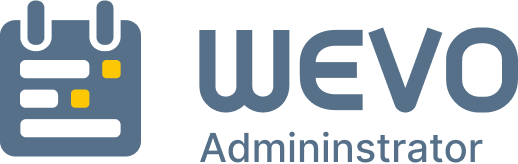
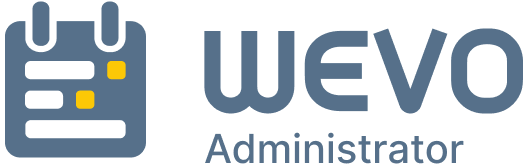
feat: update admin modals and sidebar with improved styling and functionality
- Updated the AdminReservationReviewModal and RejectionReasonModal components for better UI consistency, including button size adjustments and text truncation.
- Changed the logo in AdminLeftSidebar to the new Wevo Admin logo.
- Enhanced AdminDashboardPage and AdminReservationsPage with text truncation for better readability in table displays.

diff --git a/src/pages/AdminDashboardPage.jsx b/src/pages/AdminDashboardPage.jsx
@@ -5,12 +5,29 @@ import Calendar from "../components/Calendar/Calendar"; // Assuming a generic ca
 import { Search, ListFilter, Filter, User, Bookmark } from "lucide-react";
 import { useNavigate } from "react-router-dom";
 import AdminReservationReviewModal from "../components/AdminReservationReviewModal";
-import { fetchAdminRequests, updateBookingRequestStatus, fetchStatistics } from "../api/requests";
+import {
+  fetchAdminRequests,
+  updateBookingRequestStatus,
+  fetchStatistics,
+} from "../api/requests";
+
+// Helper function to truncate text
+const truncateText = (text, maxLength) => {
+  if (text && text.length > maxLength) {
+    return text.substring(0, maxLength) + "...";
+  }
+  return text;
+};
 
 export default function AdminDashboardPage() {
   const navigate = useNavigate();
   const [requests, setRequests] = useState([]);
-  const [stats, setStats] = useState({ totalRequests: 0, pending: 0, approved: 0, rejected: 0 });
+  const [stats, setStats] = useState({
+    totalRequests: 0,
+    pending: 0,
+    approved: 0,
+    rejected: 0,
+  });
   const [selectedRequest, setSelectedRequest] = useState(null);
   const [isReviewModalOpen, setIsReviewModalOpen] = useState(false);
 
@@ -177,15 +194,18 @@ export default function AdminDashboardPage() {
                         key={req.id}
                         className="bg-white border-b hover:bg-gray-50"
                       >
-                        <td className="px-3 py-3 flex items-center gap-2">
-                          <span className="w-8 h-8 rounded-full bg-gray-200 flex items-center justify-center">
-                            <User size={16} className="text-gray-500" />
-                          </span>
-                          {req.orgName}
+                        <td className="px-3 py-3">
+                          {truncateText(req.orgName, 25)}
                         </td>
-                        <td className="px-3 py-3">{req.location}</td>
-                        <td className="px-3 py-3">{req.type}</td>
-                        <td className="px-3 py-3">{req.eventName}</td>
+                        <td className="px-3 py-3">
+                          {truncateText(req.location, 25)}
+                        </td>
+                        <td className="px-3 py-3">
+                          {truncateText(req.type, 25)}
+                        </td>
+                        <td className="px-3 py-3">
+                          {truncateText(req.eventName, 25)}
+                        </td>
                         <td className="px-3 py-3 min-w-[8rem]">
                           <div>{req.date}</div>
                           <div className="text-xs text-gray-500">
@@ -255,8 +275,7 @@ export default function AdminDashboardPage() {
                         className="h-full bg-yellow-400"
                         style={{
                           width: `${
-                            (stats.pending / stats.totalRequests) *
-                            100
+                            (stats.pending / stats.totalRequests) * 100
                           }%`,
                         }}
                       ></div>
@@ -272,8 +291,7 @@ export default function AdminDashboardPage() {
                         className="h-full bg-green-500"
                         style={{
                           width: `${
-                            (stats.approved / stats.totalRequests) *
-                            100
+                            (stats.approved / stats.totalRequests) * 100
                           }%`,
                         }}
                       ></div>
@@ -289,8 +307,7 @@ export default function AdminDashboardPage() {
                         className="h-full bg-red-500"
                         style={{
                           width: `${
-                            (stats.rejected / stats.totalRequests) *
-                            100
+                            (stats.rejected / stats.totalRequests) * 100
                           }%`,
                         }}
                       ></div>

diff --git a/src/pages/AdminReservationsPage.jsx b/src/pages/AdminReservationsPage.jsx
@@ -11,8 +11,19 @@ import {
   ChevronDown,
 } from "lucide-react";
 import { useNavigate } from "react-router-dom";
-import { fetchAdminRequests, updateBookingRequestStatus } from "../api/requests";
+import {
+  fetchAdminRequests,
+  updateBookingRequestStatus,
+} from "../api/requests";
 import { supabase } from "../supabase/supabaseClient";
+
+// Helper function to truncate text
+const truncateText = (text, maxLength) => {
+  if (text && text.length > maxLength) {
+    return text.substring(0, maxLength) + "...";
+  }
+  return text;
+};
 
 export default function AdminReservationsPage() {
   const navigate = useNavigate();
@@ -35,10 +46,14 @@ export default function AdminReservationsPage() {
     loadRequests();
     // Real-time subscription to booking_requests changes
     const subscription = supabase
-      .channel('public:booking_requests')
-      .on('postgres_changes', { event: '*', schema: 'public', table: 'booking_requests' }, () => {
-        loadRequests();
-      })
+      .channel("public:booking_requests")
+      .on(
+        "postgres_changes",
+        { event: "*", schema: "public", table: "booking_requests" },
+        () => {
+          loadRequests();
+        }
+      )
       .subscribe();
     return () => {
       supabase.removeChannel(subscription);
@@ -57,10 +72,10 @@ export default function AdminReservationsPage() {
 
   const handleApproveRequest = async (requestId) => {
     try {
-      await updateBookingRequestStatus(requestId, 'Approved');
+      await updateBookingRequestStatus(requestId, "Approved");
       setReservations((prev) =>
         prev.map((res) =>
-          res.id === requestId ? { ...res, status: 'Approved' } : res
+          res.id === requestId ? { ...res, status: "Approved" } : res
         )
       );
     } catch (err) {
@@ -70,11 +85,11 @@ export default function AdminReservationsPage() {
 
   const handleRejectRequest = async (requestId, reason) => {
     try {
-      await updateBookingRequestStatus(requestId, 'Rejected', reason);
+      await updateBookingRequestStatus(requestId, "Rejected", reason);
       setReservations((prev) =>
         prev.map((res) =>
           res.id === requestId
-            ? { ...res, status: 'Rejected', rejectionReason: reason }
+            ? { ...res, status: "Rejected", rejectionReason: reason }
             : res
         )
       );
@@ -205,15 +220,18 @@ export default function AdminReservationsPage() {
                       key={res.id}
                       className="bg-white border-b hover:bg-gray-50"
                     >
-                      <td className="px-4 py-3 flex items-center gap-2">
-                        <span className="w-8 h-8 rounded-full bg-gray-200 flex items-center justify-center">
-                          <User size={16} className="text-gray-500" />
-                        </span>
-                        {res.orgName}
+                      <td className="px-4 py-3">
+                        {truncateText(res.orgName, 25)}
                       </td>
-                      <td className="px-4 py-3">{res.location}</td>
-                      <td className="px-4 py-3">{res.type}</td>
-                      <td className="px-4 py-3">{res.eventName}</td>
+                      <td className="px-4 py-3">
+                        {truncateText(res.location, 25)}
+                      </td>
+                      <td className="px-4 py-3">
+                        {truncateText(res.type, 25)}
+                      </td>
+                      <td className="px-4 py-3">
+                        {truncateText(res.eventName, 25)}
+                      </td>
                       <td className="px-4 py-3">
                         <div>{res.date}</div>
                         <div className="text-xs text-gray-500">{res.time}</div>

diff --git a/src/components/RejectionReasonModal.jsx b/src/components/RejectionReasonModal.jsx
@@ -17,25 +17,20 @@ export default function RejectionReasonModal({ open, onClose, onSubmit }) {
   };
 
   return (
-    <div className="fixed inset-0 z-[70] flex items-center justify-center bg-black/50 backdrop-blur-sm p-4">
-      <div className="relative bg-white rounded-xl shadow-xl w-full max-w-3xl mx-auto flex flex-col gap-5 p-6 md:p-8">
-        {/* Close Button */}
+    <div className="fixed inset-0 z-50 flex items-center justify-center bg-black/30 backdrop-blur-sm">
+      <div className="relative bg-white rounded-xl shadow-xl max-w-lg w-full mx-4 p-6">
         <button
-          className="absolute top-4 right-4 text-gray-500 hover:text-gray-700"
+          className="absolute top-3 right-3 z-10 p-2 text-gray-500 hover:text-gray-800 rounded-full hover:bg-gray-100"
           onClick={onClose}
           aria-label="Close modal"
         >
-          <X size={24} />
+          <X size={20} />
         </button>
 
-        {/* Header */}
-        <div className="w-full">
-          <h2 className="text-2xl md:text-3xl font-bold text-[#56708A] mb-1">
-            Reason for Rejection
-          </h2>
-        </div>
+        <h3 className="text-xl font-bold text-[#0458A9] mb-4">
+          Reason for Rejection
+        </h3>
 
-        {/* Reason Text Area */}
         <div className="w-full">
           <textarea
             value={reason}
@@ -45,7 +40,6 @@ export default function RejectionReasonModal({ open, onClose, onSubmit }) {
           />
         </div>
 
-        {/* Footer: Action Buttons */}
         <div className="flex flex-col sm:flex-row justify-end items-center gap-3 mt-2">
           <button
             type="button"

diff --git a/src/components/AdminReservationReviewModal.jsx b/src/components/AdminReservationReviewModal.jsx
@@ -91,14 +91,14 @@ export default function AdminReservationReviewModal({
   return (
     <>
       <div className="fixed inset-0 z-[60] flex items-center justify-center bg-black/50 backdrop-blur-sm p-4">
-        <div className="relative bg-white rounded-2xl shadow-xl w-full max-w-3xl mx-auto my-8 flex flex-col gap-5 p-6 md:p-8 max-h-[90vh] overflow-y-auto">
+        <div className="relative bg-white rounded-xl shadow-xl w-full max-w-3xl mx-auto flex flex-col gap-5 p-6 md:p-8 max-h-[90vh] overflow-y-auto">
           {/* Close Button */}
           <button
-            className="absolute top-4 right-4 text-gray-500 hover:text-gray-700"
+            className="absolute top-3 right-3 z-10 p-2 text-gray-500 hover:text-gray-800 rounded-full hover:bg-gray-100"
             onClick={onClose}
             aria-label="Close modal"
           >
-            <X size={24} />
+            <X size={20} />
           </button>
 
           {/* Header */}
@@ -214,10 +214,10 @@ export default function AdminReservationReviewModal({
                 </label>
                 <div className="p-2.5 bg-gray-100 rounded-md mt-1 truncate">
                   {participants
-                    ? typeof participants === 'number'
+                    ? typeof participants === "number"
                       ? `${participants} Participants`
                       : participants
-                    : 'N/A'}
+                    : "N/A"}
                 </div>
               </div>
             </div>

diff --git a/src/components/Sidebar/AdminLeftSidebar.jsx b/src/components/Sidebar/AdminLeftSidebar.jsx
@@ -14,8 +14,8 @@ export default function AdminLeftSidebar({ active = "Dashboard" }) {
       {/* Centered nav section */}
       <div className="flex flex-1 flex-col items-center justify-start w-full">
         <img
-          src="/wevoLogoPng.png"
-          alt="Wevo Logo"
+          src="/wevoAdmin.png"
+          alt="Wevo Admin Logo"
           className="h-10 md:h-12 mb-8 lg:mb-12" // Matched LeftSidebar
         />
         <nav className="flex flex-col gap-4 w-full items-center justify-center">
